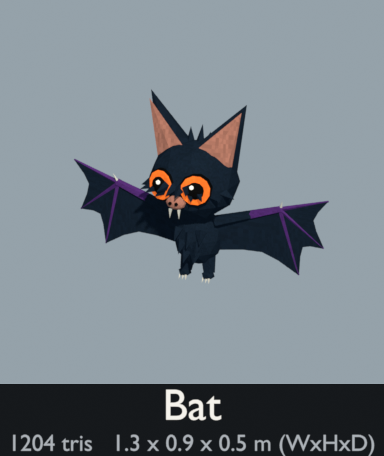
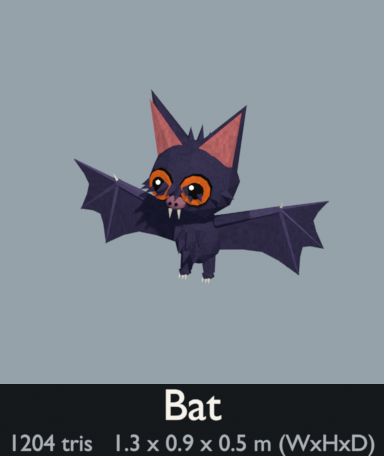
Recolor the bat to match its concept art with a palette of its own
The shared palette has no dark indigo, so the bat now gets its own copy of the palette
with six swatches recolored: soft indigo fur and wings, muted violet finger ridges,
deeper orange eyes (so the glow reads orange, not yellow), salmon ear linings and a
mauve snout. The snout now uses its own swatch rather than sharing the ears' pink.

Generator: PALETTE_VARIANTS lists a model's swatch swaps; the variant palette is written
as assets/palette_<model>.png and embedded in that model's materials, which keep the
usual names so engines map them as for any other model.

Sync: any assets/palette_<model>.png is copied into Godot, and that model gets PS1
materials of its own sampling it (materials/ps1_palette_<model>.tres and
ps1_glow_<model>.tres, written from the shared ones).

Changed region(s): [[0.375, 0.2149, 0.8438, 0.614], [0.2188, 0.3684, 0.375, 0.5219]]

diff --git a/tools/generate_assets.py b/tools/generate_assets.py
@@ -53,18 +53,30 @@ PALETTE = [
 COLS, ROWS, SW = 8, 4, 16  # swatch grid and swatch size in pixels
 IDX = {name: i for i, (name, _) in enumerate(PALETTE)}
 
+# Palette variants: a model listed here gets its own copy of the palette with these
+# swatches recolored (written as palette_<model>.png), for colors the shared palette
+# lacks. The model still picks its colors by the usual names.
+PALETTE_VARIANTS = {
+    # The bat's soft dark indigo fur and wings, muted violet finger ridges, warm orange
+    # eyes, salmon-pink ear linings and a mauve snout ("roof").
+    "enemy_bat": {"dwater": "#2E2944", "purple": "#463D60", "orange": "#94400F", "flesh": "#A85A5C",
+                  "red": "#844250", "roof": "#8A586C"},
+}
+
 
 def hex_rgb(h):
     return tuple(int(h[i:i + 2], 16) / 255 for i in (1, 3, 5))
 
 
-def build_palette_image():
+def build_palette_image(variant=None):
+    """The palette texture, or a model's variant of it (see PALETTE_VARIANTS)."""
     w, h = COLS * SW, ROWS * SW
-    img = bpy.data.images.new("ps1_palette", w, h, alpha=False)
+    swaps = PALETTE_VARIANTS.get(variant, {})
+    img = bpy.data.images.new(f"palette_{variant}" if variant else "ps1_palette", w, h, alpha=False)
     rng = random.Random(7)
     px = [1.0] * (w * h * 4)
-    for i, (_, hx) in enumerate(PALETTE):
-        r, g, b = hex_rgb(hx)
+    for i, (name, hx) in enumerate(PALETTE):
+        r, g, b = hex_rgb(swaps.get(name, hx))
         x0, y0 = (i % COLS) * SW, h - (i // COLS + 1) * SW
         for y in range(SW):
             for x in range(SW):
@@ -72,7 +84,7 @@ def build_palette_image():
                 o = ((y0 + y) * w + x0 + x) * 4
                 px[o:o + 3] = (min(1, r * k), min(1, g * k), min(1, b * k))
     img.pixels.foreach_set(px)
-    img.filepath_raw = os.path.join(OUT, "palette.png")
+    img.filepath_raw = os.path.join(OUT, f"palette_{variant}.png" if variant else "palette.png")
     img.file_format = "PNG"
     img.save()
     return img
@@ -4414,7 +4426,7 @@ def enemy_bat(b):
 
     # Snout: a pink pug nose with two nostrils, and two little fangs under it.
     n = H + Vector((0, -0.195, -0.055))
-    b.ico(0.04, 2, loc=n, scale=(1.25, 0.75, 0.85), color="flesh")
+    b.ico(0.04, 2, loc=n, scale=(1.25, 0.75, 0.85), color="roof")  # mauve in its palette
     for s in (1, -1):
         b.ico(0.01, 1, loc=n + Vector((0.016 * s, -0.03, 0.002)), color="black")
         b.limb(n + Vector((0.022 * s, -0.012, -0.03)), n + Vector((0.024 * s, -0.016, -0.075)), 0.009, 0.0,
@@ -4517,8 +4529,9 @@ def export_glb(obj, path):
 def generate():
     os.makedirs(OUT, exist_ok=True)
     clear_objects()
+    kinds = (False, True, "portal", "water", "jelly")
     img = build_palette_image()
-    mats = tuple(make_material(img, g) for g in (False, True, "portal", "water", "jelly"))
+    mats = tuple(make_material(img, g) for g in kinds)
     results = []
     for i, (cat, name, fn) in enumerate(ASSETS):
         if ONLY and ONLY not in (cat, name):
@@ -4526,11 +4539,25 @@ def generate():
         clear_objects()
         b = Builder(seed=1000 + i)
         fn(b)
-        obj = b.to_object(name, mats)
+        variant = None
+        if name in PALETTE_VARIANTS:
+            # Its own materials on its own palette, under the usual names (the shared ones
+            # step aside meanwhile, as Blender keeps names unique), so the engine maps
+            # them as it does any other model's.
+            for m in mats:
+                m.name += "~"
+            variant = tuple(make_material(build_palette_image(name), g) for g in kinds)
+        obj = b.to_object(name, variant or mats)
         tris = sum(len(p.vertices) - 2 for p in obj.data.polygons)
         os.makedirs(os.path.join(OUT, cat), exist_ok=True)
         export_glb(obj, os.path.join(OUT, cat, name + ".glb"))
         results.append((cat, name, tris, tuple(obj.dimensions)))
+        if variant:
+            clear_objects()
+            for m in variant:
+                bpy.data.materials.remove(m)
+            for m in mats:
+                m.name = m.name[:-1]
     clear_objects()
     for cat, name, tris, dims in results:
         print(f"ASSET {cat:8} {name:26} {tris:5} tris  {dims[0]:.2f} x {dims[1]:.2f} x {dims[2]:.2f} m")

diff --git a/tools/sync_godot_assets.py b/tools/sync_godot_assets.py
@@ -8,6 +8,9 @@ For every model this writes the [params] section of its .import file so that:
     and a creek's PS1_Water sheet by the flowing godot/materials/ps1_water.tres, and
     grass by the soft godot/materials/grass.tres, and the jellyfish's PS1_Jelly bell by
     the glowing pink-to-blue godot/materials/jelly.tres
+  * a model with its own palette (assets/palette_<model>.png, see PALETTE_VARIANTS in
+    generate_assets.py) gets PS1 materials of its own sampling that palette, written as
+    godot/materials/ps1_palette_<model>.tres and ps1_glow_<model>.tres
   * terrain and solid scenery get a static trimesh collision body
 
 Run from the repo root after regenerating the assets, then let Godot reimport:
@@ -20,6 +23,7 @@ import shutil
 ROOT = os.path.dirname(os.path.dirname(os.path.abspath(__file__)))
 SRC = os.path.join(ROOT, "assets")
 DST = os.path.join(ROOT, "godot", "assets")
+MATERIALS = os.path.join(ROOT, "godot", "materials")
 CATEGORIES = ["terrain", "scenery", "weapons", "pickups", "enemies", "viewmodel", "ammo"]
 
 # Scenery you walk through rather than bump into.
@@ -51,6 +55,9 @@ detect_3d/compress_to=0
 
 def glb_import(name, collision):
     palette = "grass.tres" if name in GRASS else "ps1_palette.tres"
+    glow = "ps1_glow.tres"
+    if os.path.exists(os.path.join(SRC, f"palette_{name}.png")):
+        palette, glow = f"ps1_palette_{name}.tres", f"ps1_glow_{name}.tres"
     portal = ""
     if name in PORTALS:
         portal = ''',
@@ -101,7 +108,7 @@ _subresources={{
 "materials": {{
 "PS1_Glow": {{
 "use_external/enabled": true,
-"use_external/path": "res://materials/ps1_glow.tres"
+"use_external/path": "res://materials/{glow}"
 }},
 "PS1_Palette": {{
 "use_external/enabled": true,
@@ -124,10 +131,24 @@ def write(path, text):
         f.write(text)
 
 
+def variant_materials(name):
+    """A model's own PS1 materials: the shared ones, sampling its palette instead."""
+    for kind in ("palette", "glow"):
+        with open(os.path.join(MATERIALS, f"ps1_{kind}.tres")) as f:
+            text = f.read()
+        text = text.replace("res://assets/palette.png", f"res://assets/palette_{name}.png")
+        with open(os.path.join(MATERIALS, f"ps1_{kind}_{name}.tres"), "w") as f:
+            f.write(text)
+
+
 def main():
     os.makedirs(DST, exist_ok=True)
-    shutil.copy2(os.path.join(SRC, "palette.png"), os.path.join(DST, "palette.png"))
-    write(os.path.join(DST, "palette.png.import"), PALETTE_IMPORT)
+    for f in sorted(os.listdir(SRC)):
+        if f == "palette.png" or f.startswith("palette_") and f.endswith(".png"):
+            shutil.copy2(os.path.join(SRC, f), os.path.join(DST, f))
+            write(os.path.join(DST, f + ".import"), PALETTE_IMPORT)
+            if f != "palette.png":
+                variant_materials(f[len("palette_"):-len(".png")])
     count = 0
     for cat in CATEGORIES:
         os.makedirs(os.path.join(DST, cat), exist_ok=True)

diff --git a/README.md b/README.md
@@ -31,7 +31,7 @@ Each sheet shows every model with its name, triangle count and size. Single-mode
 
 ### Palette
 
-Every model uses one shared 128×64 texture, `assets/palette.png`. It is an 8×4 grid of 16 px swatches with a little pixel noise. Each face's UVs fall inside a single swatch, so every face reads as one flat color. Glowing parts (flames, pickups, eyes, keys) use a second material, `PS1_Glow`, which samples the same texture as emissive color. A portal's membrane uses a third material, `PS1_Portal`, meant to be replaced in the engine by an animated see-through shader. A creek's water uses a fourth, `PS1_Water`, meant to be replaced by a flowing-water shader. In other engines it shows as flat see-through blue-green. The jellyfish's bell uses a fifth, `PS1_Jelly`, smooth-shaded and meant to be replaced by a soft glowing shader; in other engines it shows as a flat glowing pink.
+Every model uses one shared 128×64 texture, `assets/palette.png`. It is an 8×4 grid of 16 px swatches with a little pixel noise. Each face's UVs fall inside a single swatch, so every face reads as one flat color. Glowing parts (flames, pickups, eyes, keys) use a second material, `PS1_Glow`, which samples the same texture as emissive color. A portal's membrane uses a third material, `PS1_Portal`, meant to be replaced in the engine by an animated see-through shader. A creek's water uses a fourth, `PS1_Water`, meant to be replaced by a flowing-water shader. In other engines it shows as flat see-through blue-green. A model can also have its own copy of the palette with a few swatches recolored, for colors the shared one lacks (`PALETTE_VARIANTS` in the generator, written as `assets/palette_<model>.png` and embedded in that model): the bat's is how it gets its soft indigo fur. The jellyfish's bell uses a fifth, `PS1_Jelly`, smooth-shaded and meant to be replaced by a soft glowing shader; in other engines it shows as a flat glowing pink.
 
 | Row | Colors |
 |-----|--------|
@@ -55,6 +55,6 @@ The texture sampler is set to nearest filtering. For the full PS1 look, also tur
 - **assets/pickups/**: origin at the base, sized about 0.3–0.7 m. Spin or bob them in game.
 - **assets/viewmodel/**: first-person arm parts: right and left hands closed around a pistol-style grip, a left support hand for barrels and handguards, and a forearm with a jacket sleeve. Each hand's origin is the centre of what it holds. The forearm's origin is the wrist, and it runs 0.7 m toward the elbow.
 - **assets/ammo/**: one round per ammo type (bullet, shotgun shell, rocket, plasma cell) for the HUD ammo counter. Origin at the base, standing upright, real-world scale.
-- **assets/enemies/**: origin at the feet, facing +Z. `enemy_floating_eye` has its origin at its center, so hover it in game. It, `enemy_spider`, `enemy_shadow_cat`, `enemy_arcane_eye`, `enemy_lynx_ranger` and `enemy_jellyfish` (below) are rigged: each of the eye's five tentacles is skinned to a four-bone chain (`tentacle_<k>_0` at the root to `tentacle_<k>_3` at the tip) under a `body` bone, and each of the spider's eight legs to two bones, `leg_<side>_<k>_0` (hip to knee) and `leg_<side>_<k>_1` (knee to toe), side `l` or `r` and k = 0 at the front, under a `body` bone that carries the rest of it, so they can be posed or animated. The other models are static meshes. `enemy_golem` has no legs: its origin is under its two hip boulders, and the game floats it on electric arcs. `enemy_shadow_cat` is a black chibi cat about 1.4 m tall to its ear tips (1.0 × 1.5 m across and long), caught mid-stride with its right forepaw raised (the raised leg's segments match the planted one's, so it can be walked): an oversized head with huge leaf-shaped ears, glowing red crescent eyes (`PS1_Glow`) that drip down its face, spiky fur at its brow, cheeks and chest, and a bushy, bristling tail curling up over its back. It's rigged for animation, with its rest pose as modeled. Sides are the cat's own: `l` is +X and `r` is -X. The bones are `hips` (the root, at the rump) > `chest` > `neck` > `head` > `ear_<side>_0` > `ear_<side>_1` (each ear bends a third of the way up). The front legs hang from `chest` as `leg_f<side>_0` (shoulder to elbow) > `leg_f<side>_1` (to the wrist) > `paw_f<side>`. The hind legs hang from `hips` as `leg_b<side>_0` (hip to knee) > `leg_b<side>_1` (to the hock) > `leg_b<side>_2` (to the ankle) > `paw_b<side>`. The tail is a chain from `hips`, `tail_0` at its root to `tail_5` at its tip. The eyes and head tufts follow `head`, the chest ruff `chest`, and each tail tuft the joint it grows from. Joints are skinned half to each neighbouring bone, so they bend smoothly. The game walks it around the island and gives it its tail attack, including the spikes (`godot/scripts/enemies/shadow_cat.gd`). `enemy_arcane_eye` is an ornate floating eye, about 1.4 m across, 1 m deep and 2 m tall with its hangings, with its origin at the eyeball's center (hover it in game): a pale, veined eyeball with a glowing violet iris (`PS1_Glow`), a black slit pupil and a white glint, set in a thorny brass frame with crescent horns, a crowned gem on top and violet gems round the rim. From behind, a brass cage holds the eyeball. One thorny strap runs from the crown over the back to the bottom of the rim and another runs across from side to side. Where they cross sits a medallion of brass rings and spikes round a violet gem, and two violet sashes are draped across the back from the upper corners. Five chains hang from the frame, each ending in a violet crystal, and tattered violet cloth hangs at each side. It's rigged so every hanging can swing and bend. `body` (the eye and frame) carries each chain as `pendant_<k>_0` > `pendant_<k>_1` > `pendant_<k>_2`, top to bottom with the crystal on the last bone (k = 0 to 4 from left to right). It also carries each of the ten cloth strips as `cloth_<side>_<k>_0` > `_1` > `_2`, top to bottom (`l` at -X and `r` at +X as seen from the front, k = 0 to 4 from the inside out). Each chain link follows one bone, and the cloth bends smoothly between its bones. It has fleshy eyelids with a dark red rim, each on its own bone hinged at the eye's center (`lid_upper` and `lid_lower`). At rest they're open, folded back above and below the iris. Turning them 50° about X (`LID_OPEN` in the generator), upper down and lower up, shuts them across the middle of the eye. It has no attack: the game floats it about the island (`godot/scripts/enemies/arcane_eye.gd`). `enemy_lynx_ranger` is a chibi lynx kit in a ranger's coat, about 1.7 m tall to its ear tips (1.3 m across the ears), modeled on a piece of concept art. It has an oversized head with huge splayed ears: tan-brown behind shading to dark purple tips, pink inside, and fringed with tan fur. Its amber eyes are half-lidded under heavy dark lids, with a smug smirk below, a cream muzzle, cheek fluff and a dark crest with tan locks. Its navy coat is open at the front over grey legs, with gold front edges and a scalloped gold hem, and a gold diamond and arcs on the back. It also has a rolled collar over a white shirt, a gold medallion, a leather bandolier, a hip belt with a gold buckle and pouches, leather shoulder guards, furry dark sleeves with gold-edged navy bracers, white paws and big grey toed feet. It's rigged for animation, with its rest pose as modeled and the arms hanging. Sides are its own: `l` is +X and `r` is -X. The bones are `hips` (the root, at the waist) > `chest` > `head` > `ear_<side>_0` > `ear_<side>_1` (each ear bends a third of the way up). The arms hang from `chest` as `arm_<side>_0` (shoulder to elbow) > `arm_<side>_1` (to the wrist) > `hand_<side>`. The legs hang from `hips` as `leg_<side>_0` (hip to knee) > `leg_<side>_1` (to the ankle) > `foot_<side>`. The coat's skirt, belt and pouches follow `hips`. The torso blends from `hips` to `chest` up the waist, and the collar, straps, medallion and shoulder guards follow `chest`. Everything on the head follows `head`, and joints are skinned across their neighbouring bones so they bend smoothly. The game has it stroll about the island (`godot/scripts/enemies/lynx_ranger.gd`). `enemy_jellyfish` is a big jellyfish, about 1.6 m across its bell and 3.2 m tall with its tentacles, with its origin at the middle of the bell's rim (hover it in game). Its domed bell is soft glowing jelly (`PS1_Jelly`): the game shades it pink in the middle of whatever side faces you, through lavender to a deep blue round its edges. A glowing orange band (`PS1_Glow`) runs above a scalloped rim of pale lappets. Under it hang four frilly oral arms, pale and studded with bulbs and curling at their ends, and eight long pale ribbon tentacles from just inside the rim. It's rigged so it can pulse and its hangings can swing. `body` (the root) carries `bell`, which the game scales to pulse the bell. Each hanging is a chain of equal bones hanging straight down at rest, top to bottom: `arm_<k>_0` to `arm_<k>_4` for the oral arms (k = 0 to 3) and `tentacle_<k>_0` to `tentacle_<k>_3` for the tentacles (k = 0 to 7), each skinned smoothly along its bones. The game has it swim through the air over the island (`godot/scripts/enemies/jellyfish.gd`). `enemy_lovebird` is a rosy-faced lovebird in flight, life size (0.18 m from beak to tail tip, 0.35 m across its spread wings), with its origin at the middle of its body (hover it in game): bright green with a red forehead, salmon-pink cheeks and throat, a white ring round each dark eye, a pale hooked beak and a blue rump. Its wings are spread level and every flight feather is its own piece: green and blue coverts over green-and-blue secondaries and grey-brown primaries. Its tail is a fan of green and blue feathers, and its feet hang under its belly. It's rigged for a flying animation, with its rest pose as modeled. Sides are its own: `l` is +X. `body` (the root) carries `head`, each wing as `wing_<side>_0` (shoulder to elbow) > `wing_<side>_1` (to the wrist) > `wing_<side>_2` (the hand, carrying the primaries), the tail as `tail_0` > `tail_1`, and the legs as `leg_<side>`. Each feather follows the bone it grows from, blended across a joint when it grows near one, and the tail feathers bend from `tail_0` into `tail_1`. The game flies a pair of them over the island, perching on the trees, rocks and ruins with their wings folded (`godot/scripts/enemies/lovebird.gd`). `enemy_treant` is a little treant, about 2 m tall to the tips of its sprouts and 2 m across its claws: a hollow stump that is all head, its front a mask of pale cracked planks with big glowing orange eyes (`PS1_Glow`) under scowling brows and a glowing grin of jagged plank teeth. The planks rise into a broken crown round a mossy hollow, with three leafy sprouts and a little white flower growing out of it. Behind, it's dark bark with fingers of moss hanging over its back and mossy ribs down its round belly. Long knotty arms with mossy cuffs and vines end in four hooked pale claws each, and it squats on short bowed legs with spiked toes. It's rigged for animation, with its rest pose as modeled and the arms hanging. Sides are its own: `l` is +X. `body` (the root, up through the stump) carries `sprout_<k>` (k = 0 in the middle, 1 at -X, 2 at +X), the arms as `arm_<side>_0` (shoulder to elbow) > `arm_<side>_1` (to the wrist) > `hand_<side>` > `claw_<side>_<k>` (k = 0 to 2 from the outside in, 3 the thumb), and the legs as `leg_<side>_0` (hip to knee) > `leg_<side>_1` (to the ankle) > `foot_<side>`. The stump, face, crown and moss follow `body`, each sprout and its leaves follow their bone, and the limbs blend across their joints. Two haunt the valley's pine woods, raking with their claws up close and sending roots up under the player from afar (`godot/scripts/enemies/treant.gd`). `enemy_pumpkin_crab` is a pumpkin crab for Halloween, about 2.6 m across its legs and 1.7 m tall to the tip of its hat: a crab whose shell is a big lobed pumpkin of stony orange rind, carved on its front with a glowing face (`PS1_Glow`: slanted triangle eyes, a nose and a wide jagged grin, each with a dark cut edge round a hot orange glow and a yellow core) and glowing cracks down the grooves of its sides. Bony horns curve up all over its back, and from wire hooks on six of them hang little glowing jack-o'-lanterns on strings, with cobweb strands slung between the horns. A battered, droopy witch's hat with a buckled band sits askew on top, its crumpled tip curling over with a brass charm. Two huge spiny claws reach forward, glowing inside the jaw between their toothed fingers, and it stands on eight spiky legs with pale pointed tips. It's rigged for animation, with its rest pose as modeled. Sides are its own: `l` is +X. `body` (the root, up through the shell) carries `hat` (brim to the middle of the cone) > `hat_tip`, the lanterns as `lantern_<k>` (k = 0 to 5, each from its hook down to the lantern, so it can swing), the claws as `arm_<side>_0` (shoulder to elbow) > `arm_<side>_1` (to the wrist) > `claw_<side>` (wrist to the hinge of the jaw) > `pincer_<side>` (the upper finger, which opens), and the legs as `leg_<side>_<k>_0` (hip to knee) > `leg_<side>_<k>_1` (knee to toe, its tail on the ground), k = 0 at the front to 3. The shell, its face, horns and belly follow `body`, the hat bends from `hat` into `hat_tip`, each lantern and its string follow their bone, and the limbs blend across their joints. It scuttles about the island's beach, pinching up close and lobbing its lanterns from afar (`godot/scripts/enemies/pumpkin_crab.gd`). `enemy_bat` is a chibi bat, about 1.3 m across its spread wings and 0.9 m tall from its ear tips to its toes, with its origin at the middle of its body (hover it in game). It's nearly all head: a big round ball of dark fur, tufted at the cheeks and crown, with two huge glowing orange eyes (`PS1_Glow`) with black pupils and a glint, a pink pug snout with two little white fangs under it, and tall pointed ears lined with salmon pink. Its small furry body hangs under the head with a ruff on its chest and two clawed feet. Its wings are spread level: a bony arm from each shoulder to the wrist, with a claw for a thumb, and three long purple fingers fanning out from the wrist with a dark membrane stretched between them, scalloped between the finger tips and running back to the body's side. It's rigged for a flying animation, with its rest pose as modeled. Sides are its own: `l` is +X. `body` (the root) carries `head` > `ear_<side>`, each wing as `wing_<side>_0` (shoulder to elbow) > `wing_<side>_1` (to the wrist) > `finger_<side>_<k>` (wrist to finger tip, k = 0 the top one to 2 the lowest), and the legs as `leg_<side>`. Every part is skinned to the bones nearest it, blending between neighbours, so the membrane folds and flaps smoothly. It flits about the back of the island (`godot/scripts/enemies/bat.gd`).
+- **assets/enemies/**: origin at the feet, facing +Z. `enemy_floating_eye` has its origin at its center, so hover it in game. It, `enemy_spider`, `enemy_shadow_cat`, `enemy_arcane_eye`, `enemy_lynx_ranger` and `enemy_jellyfish` (below) are rigged: each of the eye's five tentacles is skinned to a four-bone chain (`tentacle_<k>_0` at the root to `tentacle_<k>_3` at the tip) under a `body` bone, and each of the spider's eight legs to two bones, `leg_<side>_<k>_0` (hip to knee) and `leg_<side>_<k>_1` (knee to toe), side `l` or `r` and k = 0 at the front, under a `body` bone that carries the rest of it, so they can be posed or animated. The other models are static meshes. `enemy_golem` has no legs: its origin is under its two hip boulders, and the game floats it on electric arcs. `enemy_shadow_cat` is a black chibi cat about 1.4 m tall to its ear tips (1.0 × 1.5 m across and long), caught mid-stride with its right forepaw raised (the raised leg's segments match the planted one's, so it can be walked): an oversized head with huge leaf-shaped ears, glowing red crescent eyes (`PS1_Glow`) that drip down its face, spiky fur at its brow, cheeks and chest, and a bushy, bristling tail curling up over its back. It's rigged for animation, with its rest pose as modeled. Sides are the cat's own: `l` is +X and `r` is -X. The bones are `hips` (the root, at the rump) > `chest` > `neck` > `head` > `ear_<side>_0` > `ear_<side>_1` (each ear bends a third of the way up). The front legs hang from `chest` as `leg_f<side>_0` (shoulder to elbow) > `leg_f<side>_1` (to the wrist) > `paw_f<side>`. The hind legs hang from `hips` as `leg_b<side>_0` (hip to knee) > `leg_b<side>_1` (to the hock) > `leg_b<side>_2` (to the ankle) > `paw_b<side>`. The tail is a chain from `hips`, `tail_0` at its root to `tail_5` at its tip. The eyes and head tufts follow `head`, the chest ruff `chest`, and each tail tuft the joint it grows from. Joints are skinned half to each neighbouring bone, so they bend smoothly. The game walks it around the island and gives it its tail attack, including the spikes (`godot/scripts/enemies/shadow_cat.gd`). `enemy_arcane_eye` is an ornate floating eye, about 1.4 m across, 1 m deep and 2 m tall with its hangings, with its origin at the eyeball's center (hover it in game): a pale, veined eyeball with a glowing violet iris (`PS1_Glow`), a black slit pupil and a white glint, set in a thorny brass frame with crescent horns, a crowned gem on top and violet gems round the rim. From behind, a brass cage holds the eyeball. One thorny strap runs from the crown over the back to the bottom of the rim and another runs across from side to side. Where they cross sits a medallion of brass rings and spikes round a violet gem, and two violet sashes are draped across the back from the upper corners. Five chains hang from the frame, each ending in a violet crystal, and tattered violet cloth hangs at each side. It's rigged so every hanging can swing and bend. `body` (the eye and frame) carries each chain as `pendant_<k>_0` > `pendant_<k>_1` > `pendant_<k>_2`, top to bottom with the crystal on the last bone (k = 0 to 4 from left to right). It also carries each of the ten cloth strips as `cloth_<side>_<k>_0` > `_1` > `_2`, top to bottom (`l` at -X and `r` at +X as seen from the front, k = 0 to 4 from the inside out). Each chain link follows one bone, and the cloth bends smoothly between its bones. It has fleshy eyelids with a dark red rim, each on its own bone hinged at the eye's center (`lid_upper` and `lid_lower`). At rest they're open, folded back above and below the iris. Turning them 50° about X (`LID_OPEN` in the generator), upper down and lower up, shuts them across the middle of the eye. It has no attack: the game floats it about the island (`godot/scripts/enemies/arcane_eye.gd`). `enemy_lynx_ranger` is a chibi lynx kit in a ranger's coat, about 1.7 m tall to its ear tips (1.3 m across the ears), modeled on a piece of concept art. It has an oversized head with huge splayed ears: tan-brown behind shading to dark purple tips, pink inside, and fringed with tan fur. Its amber eyes are half-lidded under heavy dark lids, with a smug smirk below, a cream muzzle, cheek fluff and a dark crest with tan locks. Its navy coat is open at the front over grey legs, with gold front edges and a scalloped gold hem, and a gold diamond and arcs on the back. It also has a rolled collar over a white shirt, a gold medallion, a leather bandolier, a hip belt with a gold buckle and pouches, leather shoulder guards, furry dark sleeves with gold-edged navy bracers, white paws and big grey toed feet. It's rigged for animation, with its rest pose as modeled and the arms hanging. Sides are its own: `l` is +X and `r` is -X. The bones are `hips` (the root, at the waist) > `chest` > `head` > `ear_<side>_0` > `ear_<side>_1` (each ear bends a third of the way up). The arms hang from `chest` as `arm_<side>_0` (shoulder to elbow) > `arm_<side>_1` (to the wrist) > `hand_<side>`. The legs hang from `hips` as `leg_<side>_0` (hip to knee) > `leg_<side>_1` (to the ankle) > `foot_<side>`. The coat's skirt, belt and pouches follow `hips`. The torso blends from `hips` to `chest` up the waist, and the collar, straps, medallion and shoulder guards follow `chest`. Everything on the head follows `head`, and joints are skinned across their neighbouring bones so they bend smoothly. The game has it stroll about the island (`godot/scripts/enemies/lynx_ranger.gd`). `enemy_jellyfish` is a big jellyfish, about 1.6 m across its bell and 3.2 m tall with its tentacles, with its origin at the middle of the bell's rim (hover it in game). Its domed bell is soft glowing jelly (`PS1_Jelly`): the game shades it pink in the middle of whatever side faces you, through lavender to a deep blue round its edges. A glowing orange band (`PS1_Glow`) runs above a scalloped rim of pale lappets. Under it hang four frilly oral arms, pale and studded with bulbs and curling at their ends, and eight long pale ribbon tentacles from just inside the rim. It's rigged so it can pulse and its hangings can swing. `body` (the root) carries `bell`, which the game scales to pulse the bell. Each hanging is a chain of equal bones hanging straight down at rest, top to bottom: `arm_<k>_0` to `arm_<k>_4` for the oral arms (k = 0 to 3) and `tentacle_<k>_0` to `tentacle_<k>_3` for the tentacles (k = 0 to 7), each skinned smoothly along its bones. The game has it swim through the air over the island (`godot/scripts/enemies/jellyfish.gd`). `enemy_lovebird` is a rosy-faced lovebird in flight, life size (0.18 m from beak to tail tip, 0.35 m across its spread wings), with its origin at the middle of its body (hover it in game): bright green with a red forehead, salmon-pink cheeks and throat, a white ring round each dark eye, a pale hooked beak and a blue rump. Its wings are spread level and every flight feather is its own piece: green and blue coverts over green-and-blue secondaries and grey-brown primaries. Its tail is a fan of green and blue feathers, and its feet hang under its belly. It's rigged for a flying animation, with its rest pose as modeled. Sides are its own: `l` is +X. `body` (the root) carries `head`, each wing as `wing_<side>_0` (shoulder to elbow) > `wing_<side>_1` (to the wrist) > `wing_<side>_2` (the hand, carrying the primaries), the tail as `tail_0` > `tail_1`, and the legs as `leg_<side>`. Each feather follows the bone it grows from, blended across a joint when it grows near one, and the tail feathers bend from `tail_0` into `tail_1`. The game flies a pair of them over the island, perching on the trees, rocks and ruins with their wings folded (`godot/scripts/enemies/lovebird.gd`). `enemy_treant` is a little treant, about 2 m tall to the tips of its sprouts and 2 m across its claws: a hollow stump that is all head, its front a mask of pale cracked planks with big glowing orange eyes (`PS1_Glow`) under scowling brows and a glowing grin of jagged plank teeth. The planks rise into a broken crown round a mossy hollow, with three leafy sprouts and a little white flower growing out of it. Behind, it's dark bark with fingers of moss hanging over its back and mossy ribs down its round belly. Long knotty arms with mossy cuffs and vines end in four hooked pale claws each, and it squats on short bowed legs with spiked toes. It's rigged for animation, with its rest pose as modeled and the arms hanging. Sides are its own: `l` is +X. `body` (the root, up through the stump) carries `sprout_<k>` (k = 0 in the middle, 1 at -X, 2 at +X), the arms as `arm_<side>_0` (shoulder to elbow) > `arm_<side>_1` (to the wrist) > `hand_<side>` > `claw_<side>_<k>` (k = 0 to 2 from the outside in, 3 the thumb), and the legs as `leg_<side>_0` (hip to knee) > `leg_<side>_1` (to the ankle) > `foot_<side>`. The stump, face, crown and moss follow `body`, each sprout and its leaves follow their bone, and the limbs blend across their joints. Two haunt the valley's pine woods, raking with their claws up close and sending roots up under the player from afar (`godot/scripts/enemies/treant.gd`). `enemy_pumpkin_crab` is a pumpkin crab for Halloween, about 2.6 m across its legs and 1.7 m tall to the tip of its hat: a crab whose shell is a big lobed pumpkin of stony orange rind, carved on its front with a glowing face (`PS1_Glow`: slanted triangle eyes, a nose and a wide jagged grin, each with a dark cut edge round a hot orange glow and a yellow core) and glowing cracks down the grooves of its sides. Bony horns curve up all over its back, and from wire hooks on six of them hang little glowing jack-o'-lanterns on strings, with cobweb strands slung between the horns. A battered, droopy witch's hat with a buckled band sits askew on top, its crumpled tip curling over with a brass charm. Two huge spiny claws reach forward, glowing inside the jaw between their toothed fingers, and it stands on eight spiky legs with pale pointed tips. It's rigged for animation, with its rest pose as modeled. Sides are its own: `l` is +X. `body` (the root, up through the shell) carries `hat` (brim to the middle of the cone) > `hat_tip`, the lanterns as `lantern_<k>` (k = 0 to 5, each from its hook down to the lantern, so it can swing), the claws as `arm_<side>_0` (shoulder to elbow) > `arm_<side>_1` (to the wrist) > `claw_<side>` (wrist to the hinge of the jaw) > `pincer_<side>` (the upper finger, which opens), and the legs as `leg_<side>_<k>_0` (hip to knee) > `leg_<side>_<k>_1` (knee to toe, its tail on the ground), k = 0 at the front to 3. The shell, its face, horns and belly follow `body`, the hat bends from `hat` into `hat_tip`, each lantern and its string follow their bone, and the limbs blend across their joints. It scuttles about the island's beach, pinching up close and lobbing its lanterns from afar (`godot/scripts/enemies/pumpkin_crab.gd`). `enemy_bat` is a chibi bat, about 1.3 m across its spread wings and 0.9 m tall from its ear tips to its toes, with its origin at the middle of its body (hover it in game). It has its own palette (`palette_enemy_bat.png`) for its colors. It's nearly all head: a big round ball of soft dark indigo fur, tufted at the cheeks and crown, with two huge glowing orange eyes (`PS1_Glow`) with black pupils and a glint, a mauve pug snout with two little white fangs under it, and tall pointed ears lined with salmon pink. Its small furry body hangs under the head with a ruff on its chest and two clawed feet. Its wings are spread level: a bony arm from each shoulder to the wrist, with a claw for a thumb, and three long muted violet fingers fanning out from the wrist with a dark indigo membrane stretched between them, scalloped between the finger tips and running back to the body's side. It's rigged for a flying animation, with its rest pose as modeled. Sides are its own: `l` is +X. `body` (the root) carries `head` > `ear_<side>`, each wing as `wing_<side>_0` (shoulder to elbow) > `wing_<side>_1` (to the wrist) > `finger_<side>_<k>` (wrist to finger tip, k = 0 the top one to 2 the lowest), and the legs as `leg_<side>`. Every part is skinned to the bones nearest it, blending between neighbours, so the membrane folds and flaps smoothly. It flits about the back of the island (`godot/scripts/enemies/bat.gd`).
 
   <img src="assets/previews/models/enemy_lynx_ranger.png" alt="Lynx Ranger: a chibi lynx kit with huge fur-fringed ears in a navy coat with gold trim, a medallion and a leather bandolier" width="300"> <img src="assets/previews/models/enemy_jellyfish.png" alt="Jellyfish: a domed pink-to-blue bell with a glowing orange band, frilly oral arms and long pale tentacles" width="300"> <img src="assets/previews/models/enemy_pumpkin_crab.png" alt="Pumpkin Crab: a crab whose shell is a glowing carved jack-o'-lantern under a witch's hat, with little lanterns hanging off its horns" width="300">

diff --git a/godot/README.md b/godot/README.md
@@ -92,7 +92,7 @@ The model prefabs are inherited scenes of their `.glb`, so a regenerated model s
 | `scripts/enemies/lynx_ranger.gd` | `LynxRanger`, the lynx ranger (`assets/enemies/enemy_lynx_ranger.glb`), a chibi lynx kit in a navy ranger's coat who lives on the island. It's harmless, like the arcane eye: no aggro ring, health or attack, and it isn't an `Enemy`. It's solid (shots stop on it) and stays off the minimap. It stands 3–8 s (`idle_time`), then strolls 3–8 m (`walk_distance`) at 0.9 m/s, never off dry land (`can_stand`; the island keeps it 4 m from the water). Standing, it breathes, glances about, twitches its ears and lets its arms sway. Within 8 m (`watch_range`) it turns its head, and a quarter of the turn in its chest, to watch you, and turns to face you if you go round behind it. It's animated procedurally on its rig. The walk cycle advances with the distance covered: each leg swings from the hip with the knee lifting as it comes through and the foot kept flat, the arms swing against the legs, the body bobs and rolls from foot to foot, and the ears flop with each step. |
 | `scripts/enemies/jellyfish.gd` | `Jellyfish`, the jellyfish (`assets/enemies/enemy_jellyfish.glb`), which swims through the air over the island. It's harmless, like the arcane eye: no aggro ring, health or attack, and it isn't an `Enemy`. Shots stop on its bell, and it stays off the minimap. It drifts slowly between random spots near home (`can_hover`: the island lets it out over the shallows up to 6 m past the waterline), with its bell's rim about 4.2 m above whatever is below (`hover_height`; over the sea it keeps above the waves, `floor_min`). It swims in pulses: every 2.6 s (`pulse_period`) its bell squeezes in and stretches tall, and it surges up and on toward where it's heading. Then the bell relaxes open as it glides and slowly sinks. It tips into its drift, sways and turns slowly round, and a soft violet light round it brightens with each pulse. The bell pulses by scaling its `bell` bone. The bell is drawn with its own soft material (`materials/jelly.gdshader`, `materials/jelly.tres`, set on import by `sync_godot_assets.py` for its `PS1_Jelly` faces) rather than the palette: smooth and glowing, pink in the middle of whatever side faces you, shading through lavender to a deep blue round its edges with a pink fringe at the silhouette and faint streaks of light, and wobbling with the same vertex snapping as the PS1 shader. Each oral arm and tentacle is a bone chain simulated as a rope (`HangingRopes`, under a lighter pull than the eye's, so they float), so they stream and trail behind its surges, bunch as it rises and spread as it sinks. The long tentacles waft in a faint breeze. |
 | `scripts/enemies/lovebird.gd` | `Lovebird`, the rosy-faced lovebird (`assets/enemies/enemy_lovebird.glb`), life size, which flies about over the island. It's harmless, like the jellyfish: no aggro ring, health or attack, and it isn't an `Enemy`. Shots stop on it, and it stays off the minimap. It flies between random spots near home (`can_hover`: the island keeps it over land), 3 to 8 m above whatever is below (`fly_height`), turning no faster than `turn_rate`, so it sweeps round in arcs, banking into each turn and pitching with its climbs and dives. It keeps at least 1.5 m above the ground, and heads elsewhere if it bumps into something. It flies in bursts of wingbeats (`flap_rate`, faster when climbing) with short glides between, gliding more when it dives. The wingbeat is posed on its rig: each downstroke sweeps the wing down and a little forward, and on the upstroke the hand folds back and lags the arm. The body bobs with the beat, the tail tips with it and twists into turns, the head stays nearly level, and the feet tuck back while it cruises. Every few seconds in flight it may look for a perch (`perch_chance`, within `perch_search`): the top of any solid, visible object (a tree, rock, wall, the ruins, a crate or a barrel) that's fairly flat, stands at least 0.6 m above what's under it (so not the ground), has 2 m of open air above, and isn't another lovebird's perch. It works in any level, since it finds perches from the collision shapes around it. It flies over, slowing and turning tighter as it nears, then swoops down onto it in a curve, flaring with its body tipped up, wings beating hard and reaching forward, and feet let down. Perched, it sits up with its wings folded along its sides (swept back edge-up, the hand drawn in) and its tail hanging, glances about, flicks its tail and now and then hops round. It follows its perch if that moves a little, and flies off after a while (`perch_time`), when you come within `flush_range` (away from you), or if its perch is knocked about or blown up. |
-| `scripts/enemies/bat.gd` | `Bat`, the chibi bat (`assets/enemies/enemy_bat.glb`), which flits about over the back of the island. It's harmless, like the lovebird: no aggro ring, health or attack, and it isn't an `Enemy`. Shots stop on it, and it stays off the minimap. It flies the way bats do: its wings beat quickly all the time (`flap_rate`), with no glides, and it jinks about rather than sweeping round in long arcs. It heads off to random spots near home (`can_hover`: the island keeps it over land), `fly_height` above whatever is below, its course swinging to a new random offset every moment or two, bobbing with every wingbeat and banking into its turns. When the player comes within `watch_range` it flutters over to hover in front of them, a little above their eyes, facing them and bobbing on the spot with its head cocking from side to side, peering at them. After a while (`watch_time`), or if they come within 1.4 m, it darts off, and leaves them be for a while (`watch_cooldown`). It's animated procedurally on its rig. Each downstroke sweeps the arms down and a little forward with the fingers spread; on the upstroke the elbows and fingers fold in, the lower fingers more, so the membrane folds like a fan and the wings come up half closed, the finger tips lagging behind and whipping round. The body bobs and rocks with the beat, the ears flop, the feet dangle and swing back with speed, and the head stays nearly level as the body pitches and banks. |
+| `scripts/enemies/bat.gd` | `Bat`, the chibi bat (`assets/enemies/enemy_bat.glb`, drawn with its own palette, `assets/palette_enemy_bat.png`, through `materials/ps1_palette_enemy_bat.tres` and `ps1_glow_enemy_bat.tres`, which `sync_godot_assets.py` writes for any model with a palette of its own), which flits about over the back of the island. It's harmless, like the lovebird: no aggro ring, health or attack, and it isn't an `Enemy`. Shots stop on it, and it stays off the minimap. It flies the way bats do: its wings beat quickly all the time (`flap_rate`), with no glides, and it jinks about rather than sweeping round in long arcs. It heads off to random spots near home (`can_hover`: the island keeps it over land), `fly_height` above whatever is below, its course swinging to a new random offset every moment or two, bobbing with every wingbeat and banking into its turns. When the player comes within `watch_range` it flutters over to hover in front of them, a little above their eyes, facing them and bobbing on the spot with its head cocking from side to side, peering at them. After a while (`watch_time`), or if they come within 1.4 m, it darts off, and leaves them be for a while (`watch_cooldown`). It's animated procedurally on its rig. Each downstroke sweeps the arms down and a little forward with the fingers spread; on the upstroke the elbows and fingers fold in, the lower fingers more, so the membrane folds like a fan and the wings come up half closed, the finger tips lagging behind and whipping round. The body bobs and rocks with the beat, the ears flop, the feet dangle and swing back with speed, and the head stays nearly level as the body pitches and banks. |
 | `scripts/enemies/hanging_ropes.gd` | `HangingRopes`, shared by the arcane eye and the jellyfish: chains of bones simulated as little ropes, so a model's hangings really swing. Each chain is a run of verlet points joined at fixed lengths, under gravity and air drag, pinned where it hangs from the model, and every step its bones are aimed along it. Each rope eases back toward its rest shape (`stiff`), has its own air drag (`drag`) and stirs in a breeze (`breeze`), and no segment swings further than `max_swing` from straight down. `add_named()` finds every chain named `<prefix><key>_<j>`. |
 | `scripts/enemies/arcane_eye.gd` | `ArcaneEye`, the arcane eye (`assets/enemies/enemy_arcane_eye.glb`, scaled 1.3×), which floats over the island. It's harmless: no aggro ring, health or attack, and it isn't an `Enemy`. Like the floating eye, it hovers 2.8 m above whatever is below with a gentle bob, drifting slowly (1.2 m/s) between random spots near home (`can_hover`: the island keeps it over land). It sways, tips into its drift, and turns its gaze on a player within 12 m, tilting to look up or down at them. A dim violet light pulses round it. Its rigged hangings (each chain and each cloth strip a run of three bones) are simulated as little ropes (`HangingRopes`): verlet points joined at fixed lengths under gravity and air drag, pinned to the frame where they hang, with the bones aimed along them every frame. Drifting, speeding up and slowing, bobbing, tipping and turning all swing them about, and they trail, overshoot and settle on their own. No segment swings more than 80° from straight down (`MAX_SWING`). The cloth is a little stiff, easing back toward hanging straight, and stirs in a faint breeze. Now and then it glances aside and back, so its hangings sway even when it's idle. It blinks every 2–6 s (now and then twice): its lids snap shut across the eye and open again over about 0.3 s. While it watches the player it narrows them to a squint. Shots stop on it, and it stays off the minimap. |
 | `scripts/enemies/electric_arcs.gd` | `ElectricArcs`: jagged lightning bolts from points on a body, fanning out down to the ground, redrawn about 16 times a second so they jump and flicker. Each is drawn as a white-hot core inside a blue glow and a wide soft halo, with a glow where they land, sparks, wisps of pale smoke and a flickering light. `intensity` above 1 thickens them and sets them crawling over the body. The golem floats on it, and its shock ring uses it too. |
